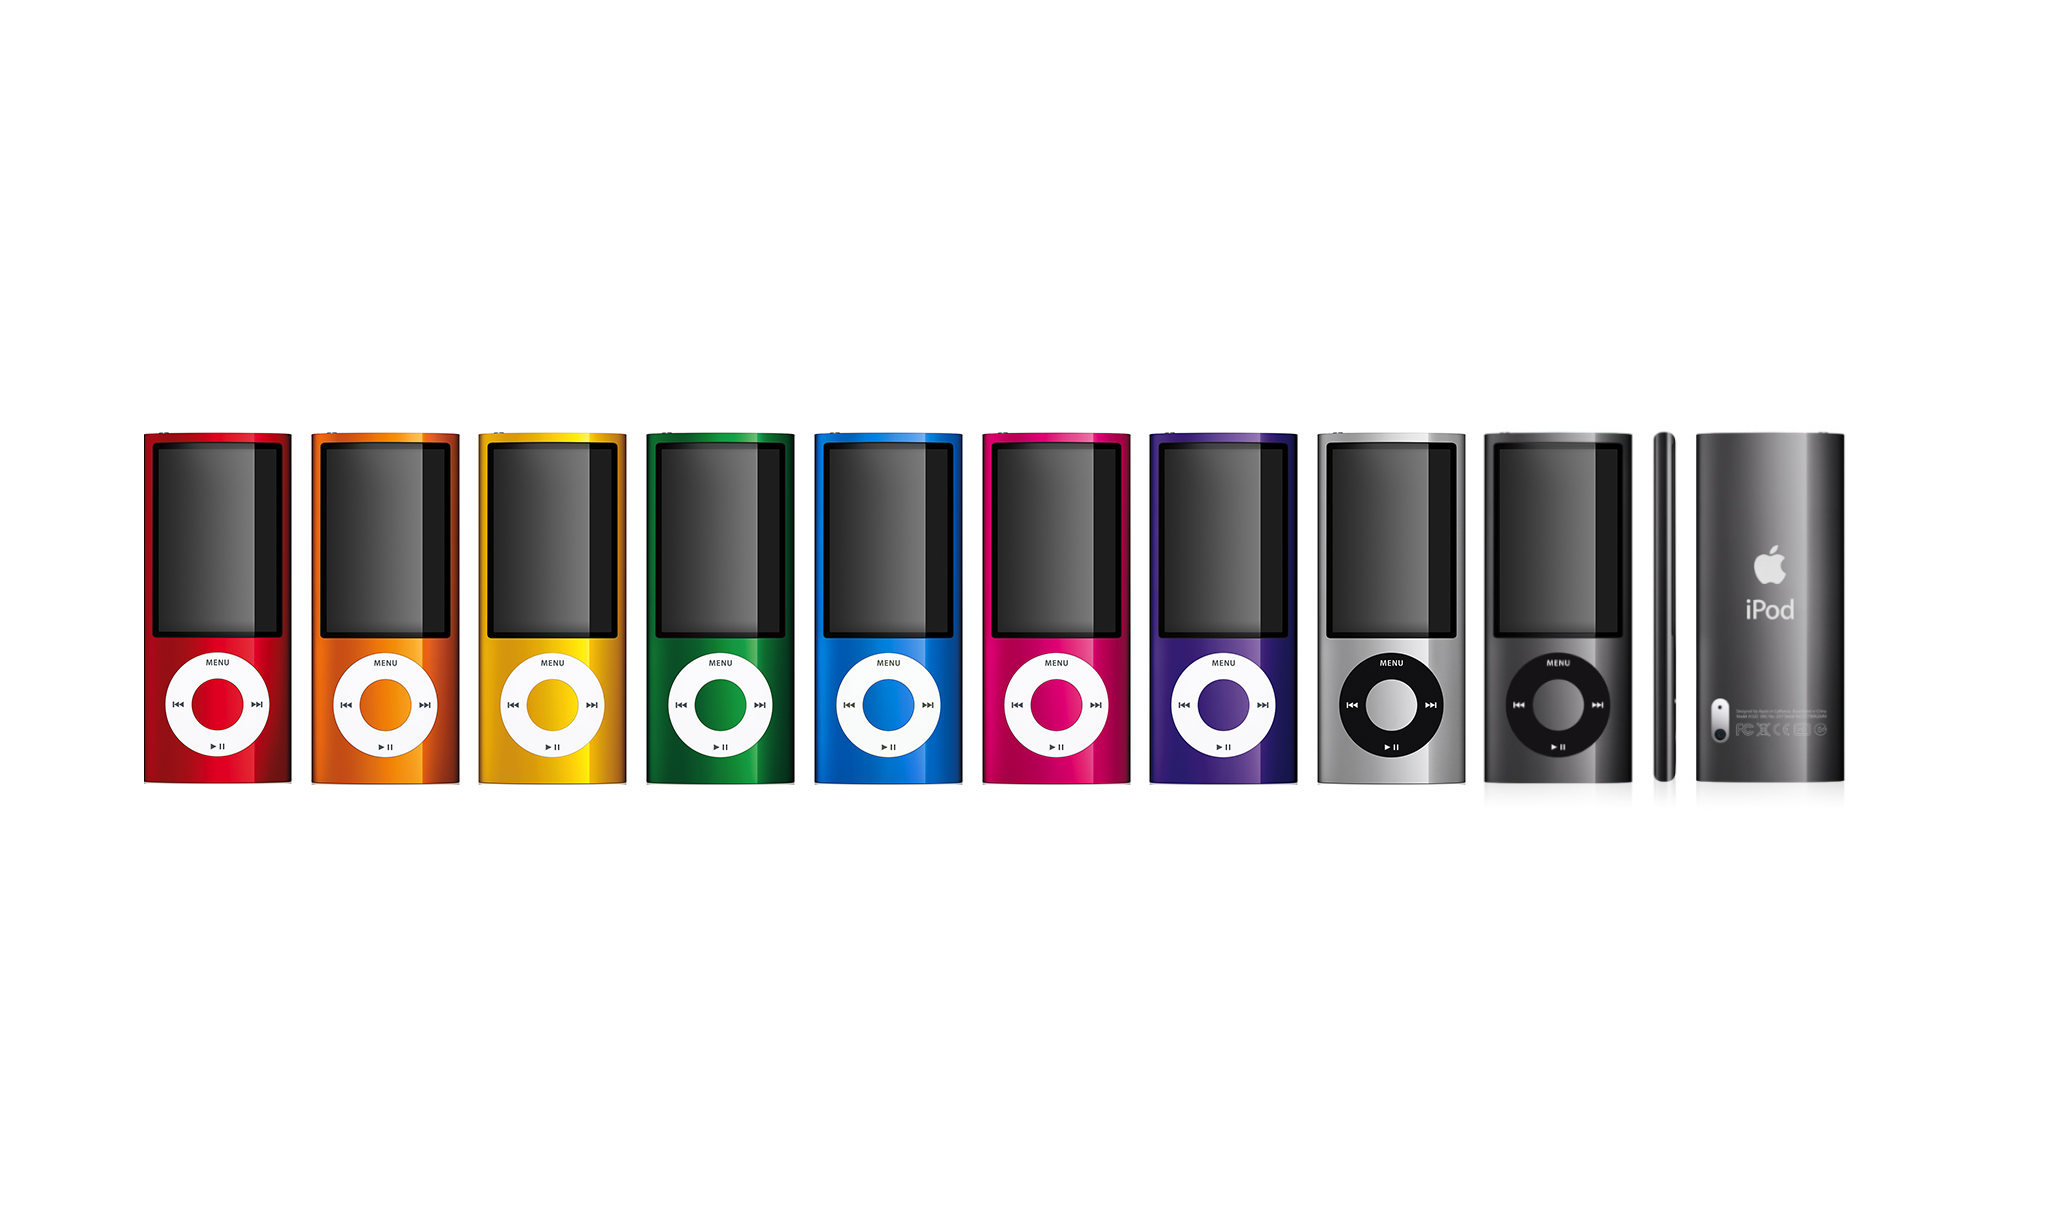
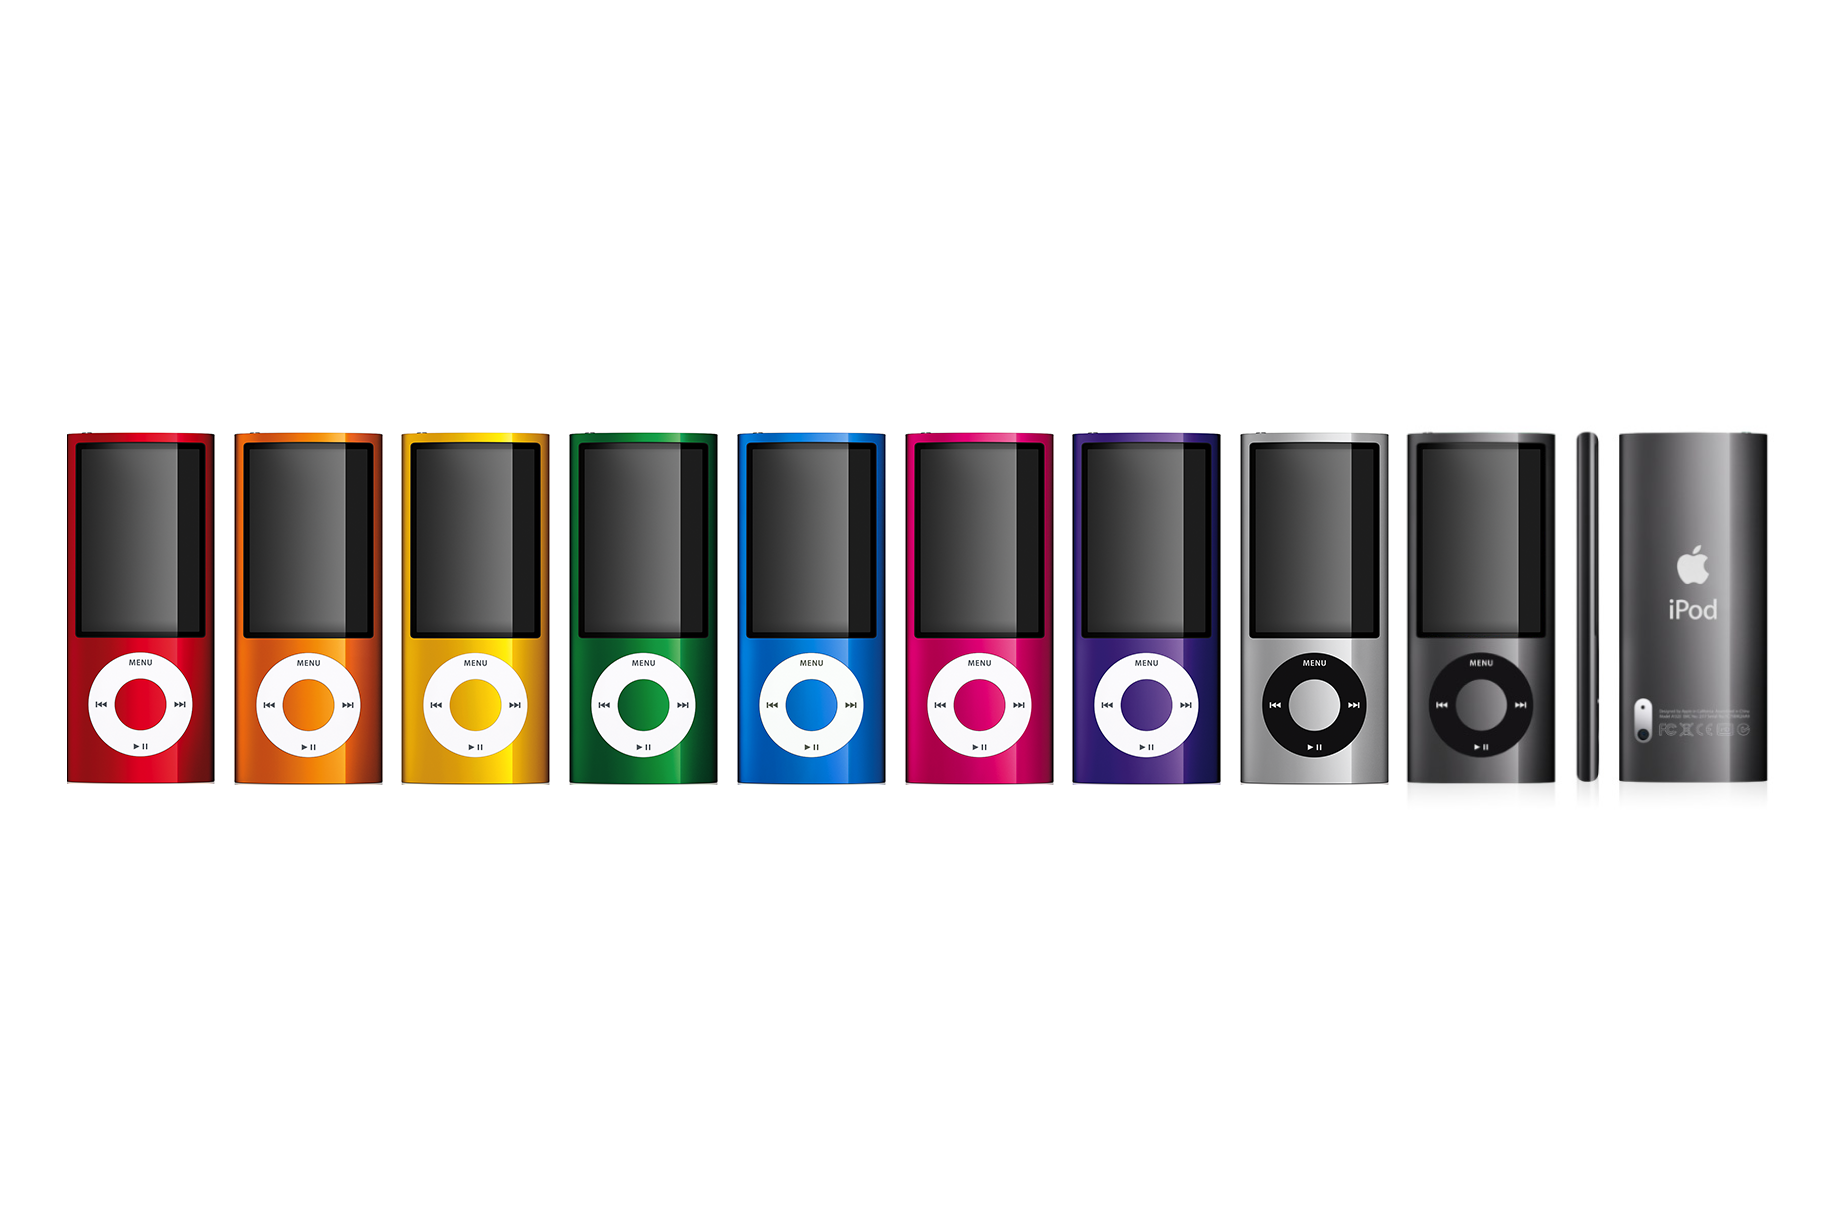
iPod Nano 2009

Changed region(s): [[0.0309, 0.3415, 0.9593, 0.652]]

diff --git a/pages/posts/iPodNano 2009/index.md b/pages/posts/iPodNano 2009/index.md
@@ -15,8 +15,8 @@ top: 20090909
 ![09nano_iris](./09nano_iris.png)
 ![09nano_video_green2](./09nano_video_green2.png)
 ![09nanoblue](./09nanoblue.png)
-![hero-nano-20090909](./hero-nano-20090909.png)
-![image3_20090909](./image3_20090909.png)
+![hero-nano-20090909](./hero-nano-20090909.jpg)
+![image3_20090909](./image3_20090909.jpg)
 ![overview_hero1_20090909](./overview_hero1_20090909.png)
 
 ![blue_image4_20090909](./blue_image4_20090909.jpg)
